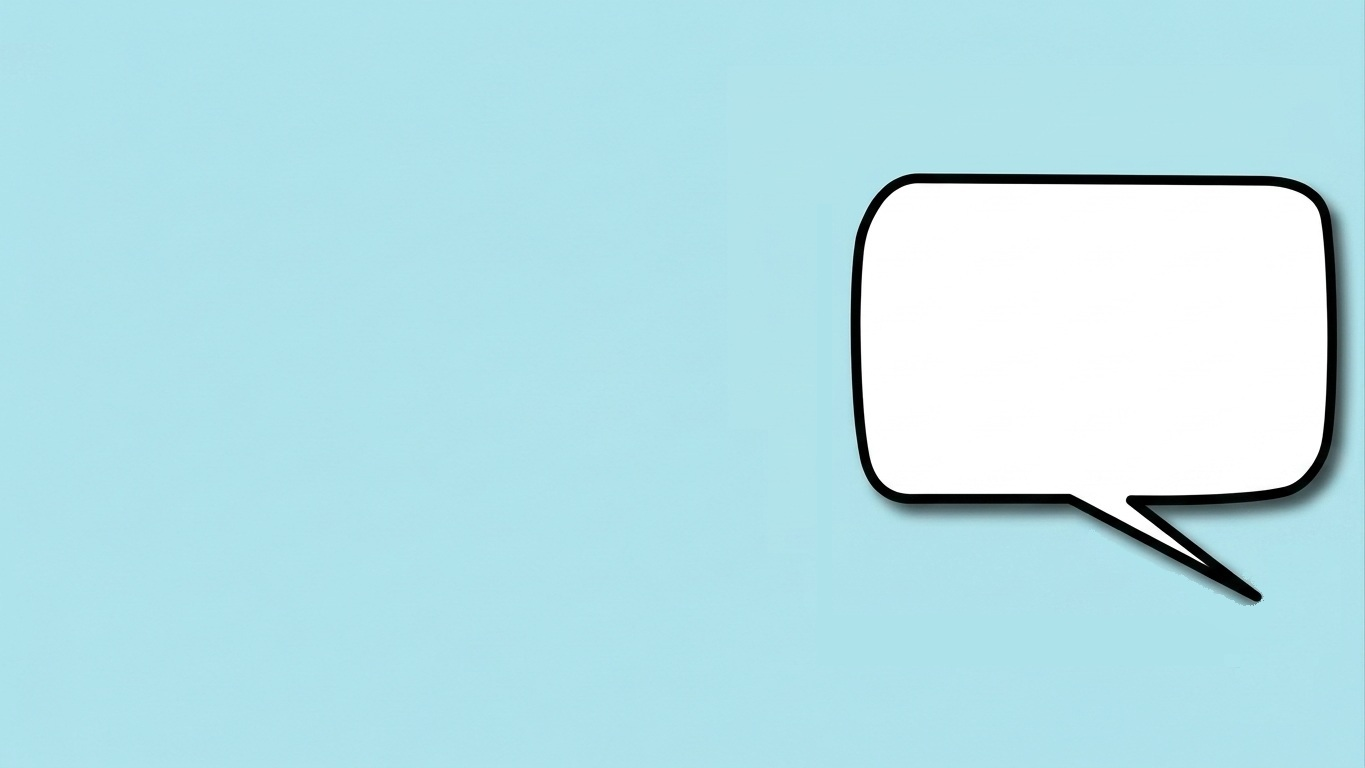
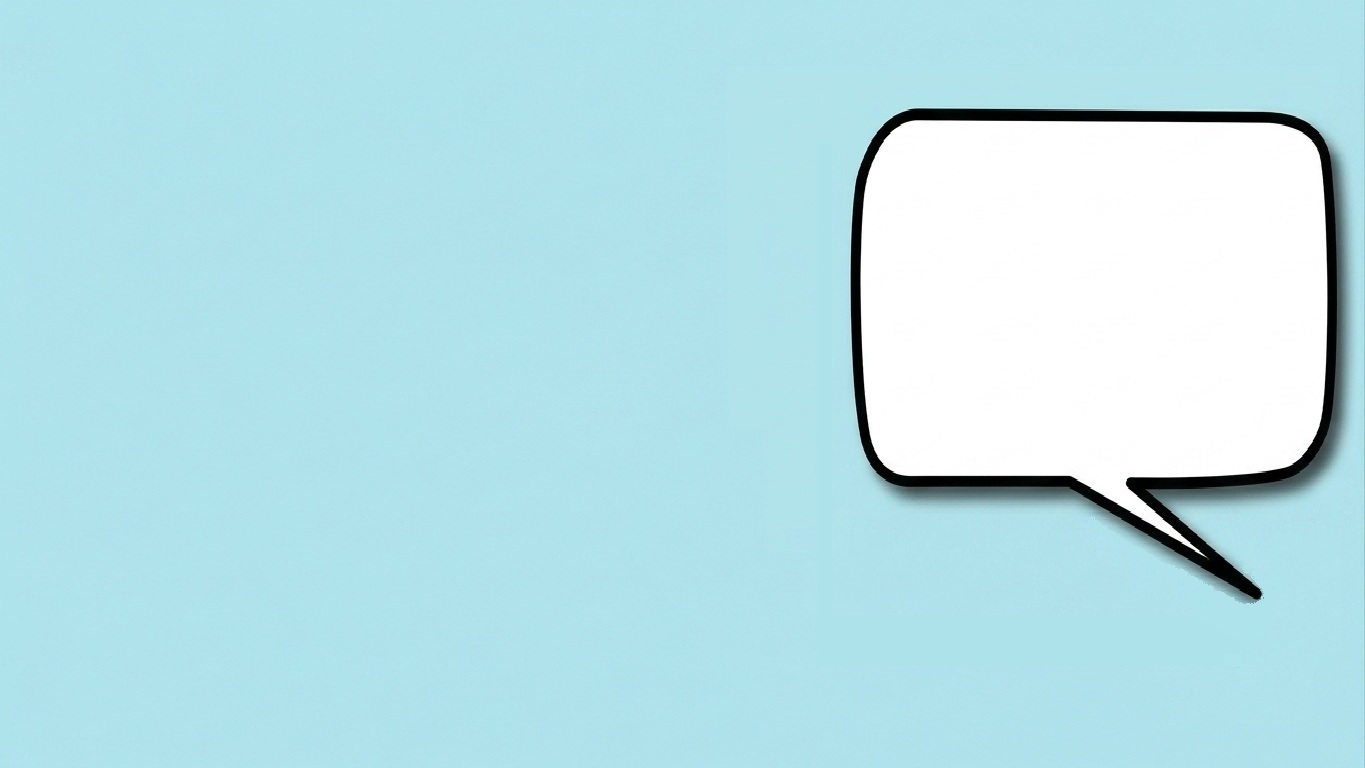
adding artwork

Changed region(s): [[0.6154, 0.125, 1.0, 0.375], [0.6154, 0.4375, 1.0, 0.7812]]

diff --git a/templates/index.html b/templates/index.html
@@ -92,10 +92,10 @@
             padding: 12px 50px;
         }
         }
-        #pokedex, #nihongo, #niponjin {
+        #pokedex, #nihongo, #niponjin, #abilities {
             position: absolute;
             right: 5%;
-            width: 400px;
+            width: 460px;
             font-family: "Comic Sans MS", "Comic Sans", cursive;
             color: #333;
             text-shadow: none;
@@ -105,21 +105,30 @@
             line-height: 1.4;
         }
         #nihongo {
-            top: calc(15% + 90px);
+            top: calc(15% + 18px);
             font-size: 20px;
             transform: translateY(-48px)
         }
         #niponjin {
-            top: calc(20% + 90px);
+            top: calc(20% + 18px);
             font-size: 20px;
             transform: translateY(-48px)
         }
         #pokedex {
-            top: calc(20% + 145px);
-            height: 400px;
+            top: calc(20% + 80px);
+            height: 200px;         
             overflow-y: auto;
             font-size: 17px;
-            transform: translateY(-48px)
+            transform: translateY(-48px);
+            flex-grow: 1;
+            align-self: stretch;
+        }
+        #abilities {
+            top: calc(20% + 280px);
+            height: 180px;
+            overflow-y: auto;
+            font-size: 17px;
+            transform: translateY(-48px);
         }
         #pokemonInfo {
             font-family: 'Pokemon Solid', sans-serif;
@@ -145,10 +154,10 @@
         .selectyourversion {
             font-family: 'Pokemon Solid', sans-serif;
             position: absolute;
-            top: 100px;
-            left: 20%;
+            bottom: 0;
+            left: 40%;
             display: none;
-            flex-direction: column;
+            flex-direction: row;
             align-items: stretch;
             gap: 10px;
         }
@@ -171,9 +180,9 @@
         .takeshi{
             position: fixed;
             bottom: 1px;
-            right: -150px; 
-            width: 767px;
-            height: 767px;
+            right: -25px; 
+            width: 500px;
+            height: 500px;
             box-sizing: border-box;
             padding: 20px;
             display: flex;
@@ -193,6 +202,14 @@
             margin: 0;
             display: none;
         }
+        #art-credit {
+            display: none;
+            position: fixed;
+            bottom: 5px;
+            left: 10px;
+            font-size: 0.85rem;
+            z-index: 10;
+        }
     </style>
     <head>
         <meta charset="UTF-8">
@@ -209,13 +226,13 @@
             <a href="https://maattthhhh.github.io/Tracking-ISS/tracking_iss.html"><img id="myImage" src="static/pikachu.gif" style="width:300px; height: 300px"></a>
         </div>
         <div id="pokemonInfo"></div>
-        <br>
         <p id="nihongo"></p>
         <br>
         <p id="niponjin"></p>
         <div id="pokedex">
             {{ cleaned_text }}
         </div>
+        <div id="abilities"></div>
         <div id="sizeSelector" class="selectyourversion">
             <button id="prevSize" style="background-color: #4a5568;">Silver</button>
             <button id="presSize" style="background-color: #a7d8de;">Crystal</button>
@@ -233,8 +250,17 @@
                     "https://raw.githubusercontent.com/PokeAPI/sprites/master/sprites/pokemon/versions/generation-ii/gold/" + AD + ".png"
                 ]
                 const maincast = [
-                    'static/ash.png', 'static/misty.png', 'static/brock.png', 'static/jessie.png', 'static/james.png', 'static/gary.png', 'static/oak.png', 'static/delia.png'
-                ]
+                    { src: 'static/ash.png', title: 'Ash Ketchum' },
+                    { src: 'static/misty.png', title: 'Misty' },
+                    { src: 'static/brock.png', title: 'Brock' },
+                    { src: 'static/jessie.png', title: 'Jessie' },
+                    { src: 'static/james.png', title: 'James' },
+                    { src: 'static/gary.png', title: 'Gary Oak' },
+                    { src: 'static/delia.png', title: 'Delia Ketchum' },
+                    { src: 'static/joy.png', title: 'Nurse Joy' },
+                    { src: 'static/jenny.png', title: 'Officer Jenny' },
+                    { src: 'static/oak.png', title: 'Professor Oak' }
+                ];
                 var avatar = document.querySelector(".selectyourversion");
                 var brock = document.getElementById("myImage");
                 let misty = 0
@@ -247,6 +273,7 @@
                     if (xhr.readyState == 4 && xhr.status == 200) {
                         var response = JSON.parse(xhr.responseText);
                         document.getElementById("pokedex").innerHTML = "<p>" + response.cleaned_text + "</p><br>";
+                        document.getElementById('abilities').innerHTML = "Abilities: " + "<br>" + response.abilities.map(a => a.charAt(0).toUpperCase() + a.slice(1)).join(', ');
                     }
                 }
                 xhr.open('GET', '/get_pokemon?pokemonName=' + myPokemon, true);
@@ -281,7 +308,8 @@
                     // 2. Get the image element by its ID
                     const imgElement = document.getElementById('castImage')
                     imgElement.style.display = 'block';
-                    imgElement.src = maincast[randomIndex];
+                    imgElement.src = maincast[randomIndex].src;
+                    imgElement.title = maincast[randomIndex].title;
                 }
                 showRandomPic()
             
@@ -384,7 +412,26 @@
 
             function convertToRomajiFallback(katakanaStr) {
                 if (!katakanaStr) return "Romaji not found";
-                return katakanaStr.split('').map(char => katakanaToRomaji[char] || char).join('');
+
+                let romaji = "";
+                const chars = [...katakanaStr];
+
+                for (let i = 0; i < chars.length; i++) {
+                    const char = chars[i];
+
+                    if (char === "ー") {
+                        const lastVowel = romaji.match(/[aeiou]$/i);
+                        romaji += lastVowel ? lastVowel[0] : "";
+                    } else if (char === "ッ") {
+                        const nextRomaji = katakanaToRomaji[chars[i + 1]] || "";
+                        const firstConsonant = nextRomaji.match(/^[bcdfghjklmnpqrstvwxyz]/i);
+                        if (firstConsonant) romaji += firstConsonant[0];
+                    } else {
+                        romaji += katakanaToRomaji[char] || char;
+                    }
+                }
+
+                return romaji;
             }
             async function getPokemon() {
                 const req = await fetch(
@@ -407,7 +454,22 @@
                         document.getElementById("niponjin").innerHTML = `Romaji: ${finalRomaji.charAt(0).toUpperCase() + finalRomaji.slice(1)}`
                     }
                     document.getElementById("nihongo").innerHTML = japanese ? `Japanese Name: ${japanese.name}` : "Japanese name not found";
-            }}
+            
+            const artworkUrl = ash.sprites.other["official-artwork"].front_default;
+            const body = document.getElementById("sugimori");
+                if (artworkUrl) {
+                    body.style.backgroundImage = `url('${artworkUrl}'), url('static/bubbly.jpg')`;
+                    body.style.backgroundRepeat = "no-repeat, no-repeat";
+                    body.style.backgroundAttachment = "fixed, fixed";
+                    body.style.backgroundPosition = "left bottom 30px, center center";
+                    body.style.backgroundSize = "33.33vw auto, cover";
+                    const credit = document.getElementById("art-credit");
+                    if (credit) {
+                        credit.style.display = "block";
+                    }
+                }
+            }
+        }
             getPokemon();
         }
         </script>
@@ -456,5 +518,9 @@
             <!-- The image tag where the random picture will show -->
             <img id="castImage" src="static/ash.png" alt="Cast Member" style="display: none;">
         </div>
+        <body style="background-color:powderblue;" id="sugimori">        <!-- Place this right before your closing </body> tag -->
+    <footer id="art-credit">
+        Artwork by Ken Sugimori &bull; &copy; Pokémon / Nintendo
+    </footer>
     </body>
 </html>

diff --git a/app.py b/app.py
@@ -15,6 +15,16 @@ def index():
 @app.route('/get_pokemon')
 def get_pokemon():
     AD = request.args.get('pokemonName')
+    ketchum = AD.lower()
+    req = requests.get("https://pokeapi.co/api/v2/pokemon/"+ketchum)
+
+    if req.status_code == 200:
+        ash = req.json()
+        abilities = []
+        for ability in ash['abilities']:
+            abilities.append(ability['ability']['name'])
+    else:
+        return jsonify(cleaned_text="Pokemon not found!")
     my_url = "https://pokemondb.net/pokedex/" + AD
     headers = {
         "User-Agent": "Maattthhhh ({my_email}) Python-requests"
@@ -36,7 +46,7 @@ def get_pokemon():
                 print()
                 print(cleaned_text)
                 print()
-        return jsonify(cleaned_text=cleaned_text)
+        return jsonify(cleaned_text=cleaned_text, abilities=abilities)
     except Exception as e:
         return jsonify(cleaned_text=f"An error occurred: {str(e)}")
 
